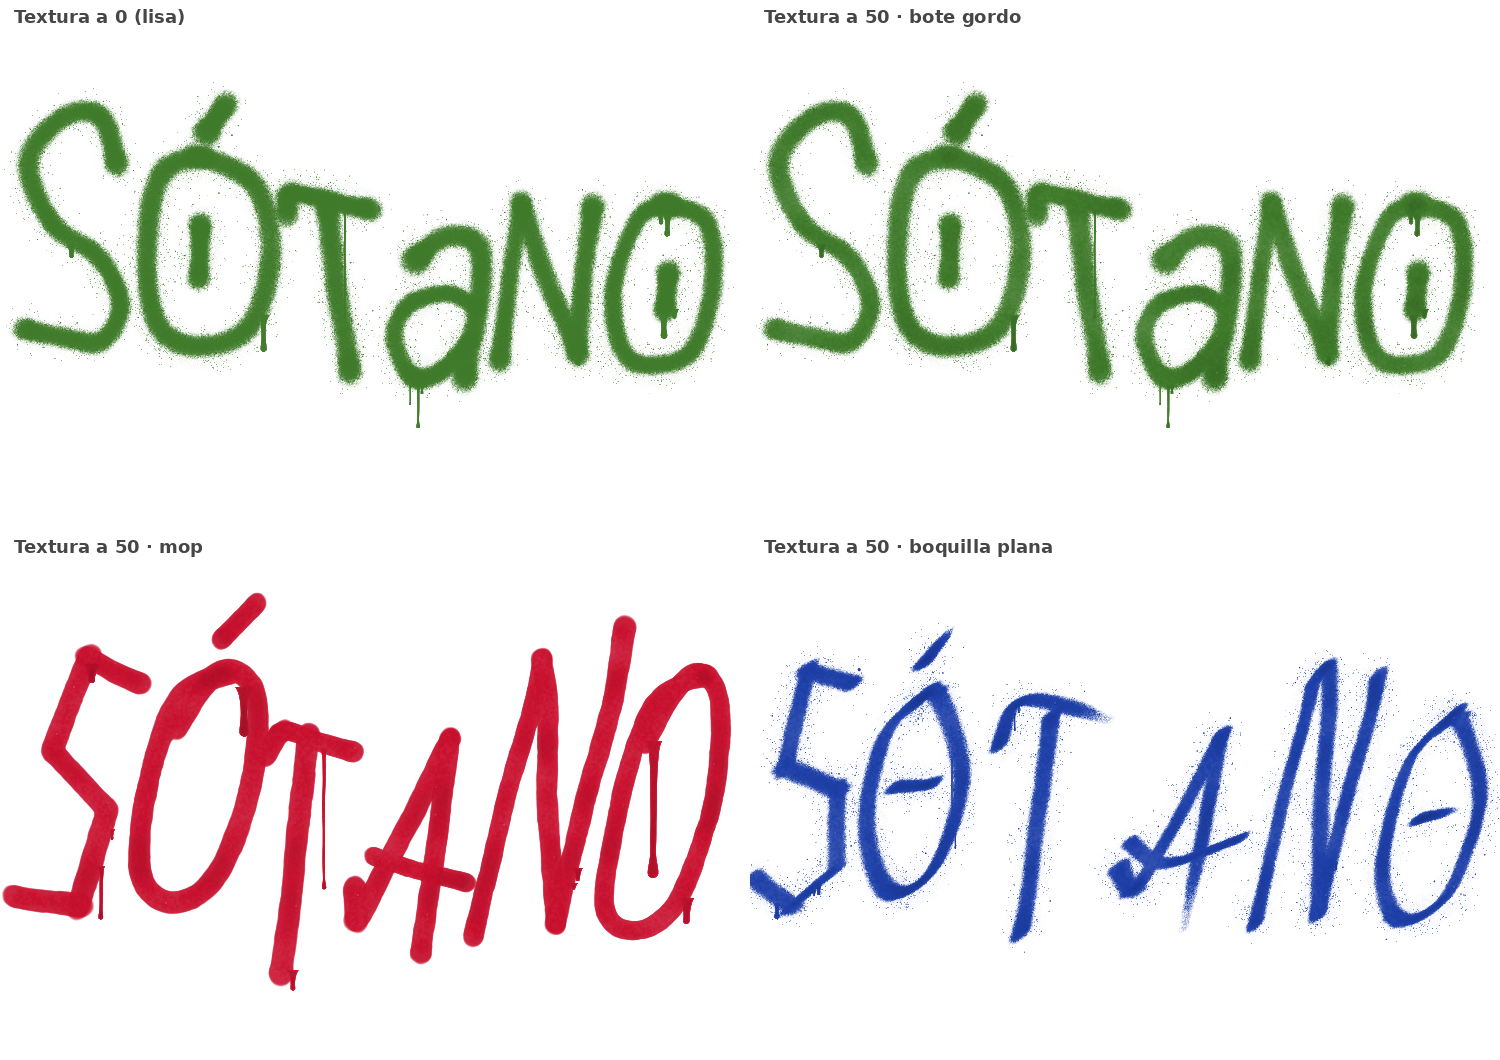
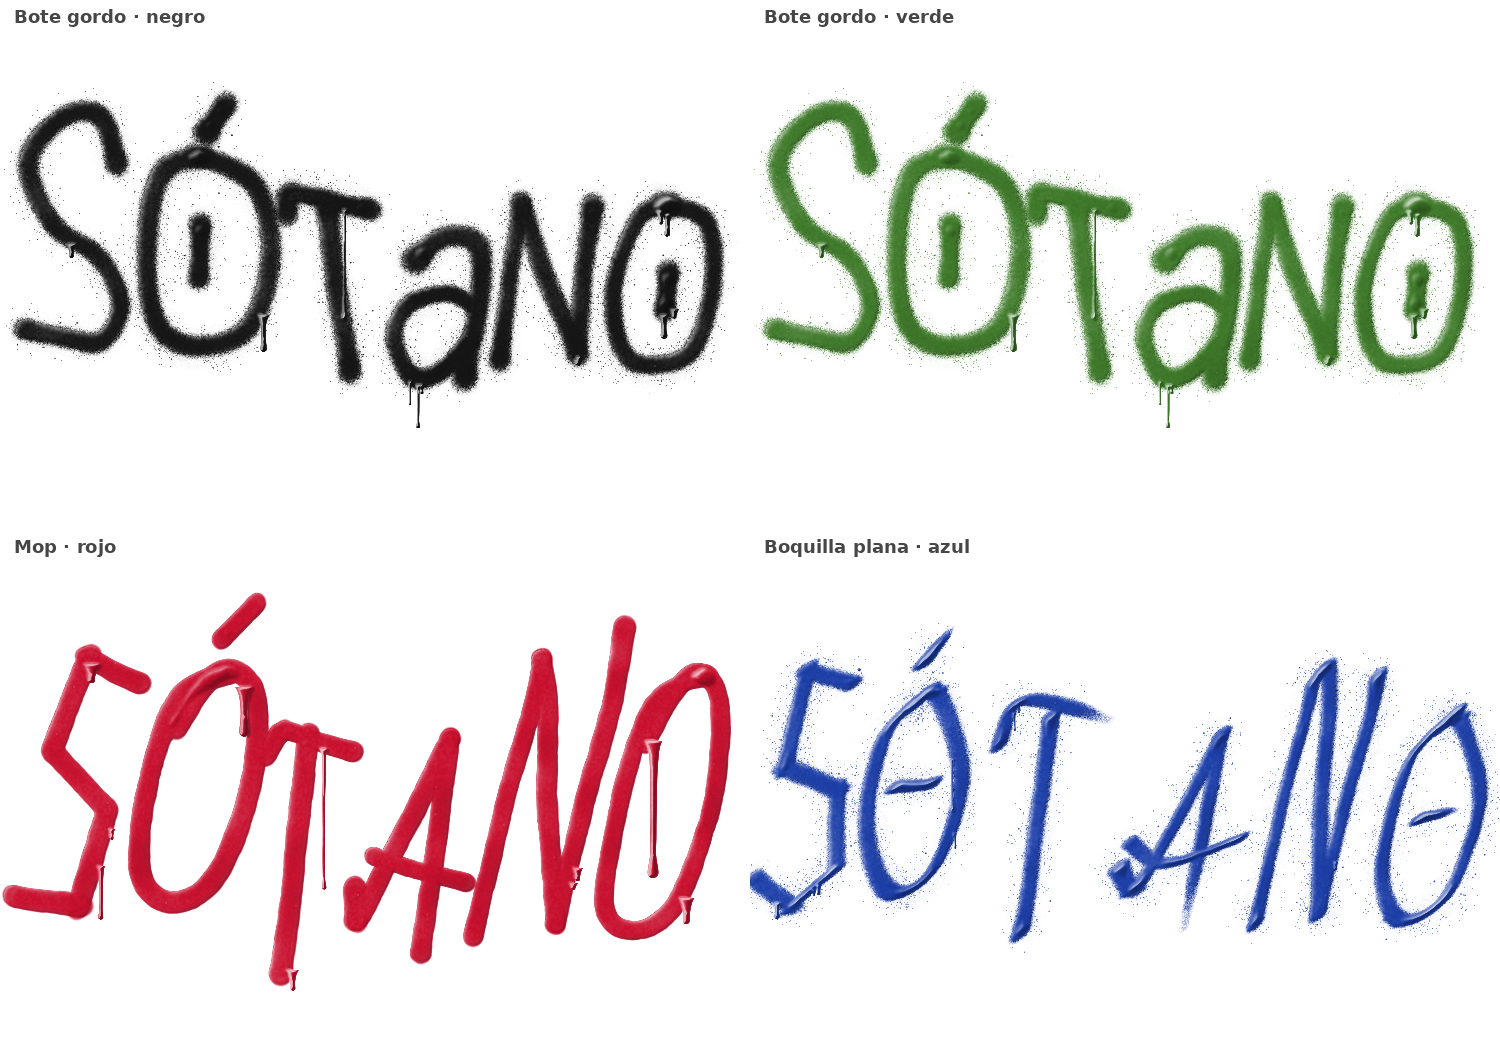
Graffiti (en curso, sin ccx): textura con un poco de brillo y de relieve
- applyRelief: la película tiene grosor (canto que coge luz arriba-izquierda y oscurece enfrente), lo acumulado
  abulta, el chorretón es un cordón con su línea de luz y la gota una pompa; brilla más donde hay más carga y a
  rachas; se mantiene el fondo plano (bandas de brillo, piel fina) y las uniones sin costura

Claude-Session: https://claude.ai/code/session_01VPHARAUhx1iCr3dazRNKtN

diff --git a/js/render.js b/js/render.js
@@ -167,11 +167,26 @@ function applyRelief(canvas) {
     for (let y = 0; y < h; y++) { const r = y * w, ru = y > 0 ? r - w : r, rd = y < h - 1 ? r + w : r; for (let x = 0; x < w; x++) c[r + x] = (b[ru + x] + 2 * b[r + x] + b[rd + x]) * 0.25; }
     a = c;
   }
+  // un poco de relieve: la película tiene su grosor (poco), lo acumulado abulta, el chorretón es un cordón y su
+  // gota una pompa. Se ilumina desde arriba a la izquierda: claro en lo que mira a la luz, oscuro al otro lado
+  const blurN = (src, times) => {
+    let q = src, t = new Float32Array(n);
+    for (let k = 0; k < times; k++) {
+      for (let y = 0; y < h; y++) { const r = y * w; for (let x = 0; x < w; x++) { const l = x > 0 ? q[r + x - 1] : q[r + x], rr = x < w - 1 ? q[r + x + 1] : q[r + x]; t[r + x] = (l + 2 * q[r + x] + rr) * 0.25; } }
+      const c = q === src ? new Float32Array(n) : q;
+      for (let y = 0; y < h; y++) { const r = y * w, ru = y > 0 ? r - w : r, rd = y < h - 1 ? r + w : r; for (let x = 0; x < w; x++) c[r + x] = (t[ru + x] + 2 * t[r + x] + t[rd + x]) * 0.25; }
+      q = c;
+    }
+    return q;
+  };
+  const Hs1 = blurN(H0, 2), depth = s * 0.3, Z = new Float32Array(n);
+  for (let k = 0; k < n; k++) { const v = Hs1[k]; if (v > 0) Z[k] = depth * (0.95 * Math.min(1, v * 2) + 2.2 * Math.max(0, v - 0.5) + 4 * Math.max(0, a[k] - 0.5)); }
+  const dl = Math.max(1, Math.round(s * 0.22));        // paso del gradiente hacia la luz
   const f1 = 1 / (s * 15), f2 = 1 / (s * 5.5), f3 = 1 / Math.max(1.5, s * 0.5), cell = Math.max(3, Math.round(s * 2.2));
   for (let y = 0; y < h; y++) for (let x = 0; x < w; x++) {
     const k = y * w + x, v = H0[k], i = k * 4;
-    if (v < 0.3 || !D[i + 3]) continue;
-    const m = v >= 0.48 ? 1 : (v - 0.3) / 0.18;                  // solo la película con cuerpo (la nube de motas, no)
+    if ((v < 0.3 && Hs1[k] < 0.2) || !D[i + 3]) continue;
+    const m = v >= 0.48 ? 1 : Math.max(0, Math.min(1, (Math.max(v, Hs1[k] * 1.3) - 0.2) / 0.28));
     const X = canvas.x0 + x, Y = canvas.y0 + y;
     const acc = Math.max(0, Math.min(1, (a[k] - 0.52) * 2.6));     // pintura de más
     // brillo: bandas anchas (inclinadas, como la luz que resbala) + un aguado más corto
@@ -181,6 +196,13 @@ function applyRelief(canvas) {
     const cx = Math.floor(X / cell), cy = Math.floor(Y / cell);
     if (R2.hash2(cx, cy, 921) < 0.035) { const px = (cx + 0.25 + 0.5 * R2.hash2(cx, cy, 923)) * cell, py = (cy + 0.25 + 0.5 * R2.hash2(cx, cy, 925)) * cell, dd = Math.hypot(X - px, Y - py); if (dd < 1.1) li += amount * 0.22; else if (dd < 2.1 && Y > py) li -= amount * 0.1; }
     li = (li - amount * 0.32 * acc) * m;
+    // la luz: lo que mira arriba-izquierda aclara, lo de enfrente oscurece; más donde la pintura está cargada y
+    // mojada (y a rachas: no brilla igual en todas partes)
+    { const xa = x >= dl ? x - dl : 0, ya = y >= dl ? y - dl : 0, xb = x + dl < w ? x + dl : w - 1, yb = y + dl < h ? y + dl : h - 1;
+      const e = Math.max(-1, Math.min(1, (Z[yb * w + xb] - Z[ya * w + xa]) / (dl * 2.83) * 4));     // >0: sube hacia abajo-derecha = mira a la luz
+      const wet = Math.max(0.5, Math.min(1.5, 0.55 + 1.1 * acc + 0.55 * sheen + 1.3 * Math.max(0, v - 0.5)));
+      // (y el destello: un punto de luz neto donde el cordón o la gota miran de lleno a la luz)
+      li += amount * (e > 0 ? 0.8 * wet * e + 0.7 * wet * Math.max(0, e - 0.5) * Math.max(0, e - 0.5) : 0.5 * e); }
     for (let c = 0; c < 3; c++) { let u = D[i + c]; u += li > 0 ? (255 - u) * li : u * li; D[i + c] = u < 0 ? 0 : u > 255 ? 255 : u; }
   }
 }

diff --git a/js/ink.js b/js/ink.js
@@ -529,7 +529,7 @@ function drawDrips(buf, bx0, by0, bx1, by1, bw, drips, dens, hb) {
         const dx = Math.abs(X + 0.5 - xc), al = Math.max(0, Math.min(1, hw - dx + 0.5)) * dens, k = (Y - by0) * bw + (X - bx0);
         if (al > buf[k]) buf[k] = al;
         // (el chorretón es un cordón de pintura: sobresale, redondo, y más su gota)
-        if (hb && al > 0) { const u = dx / (hw + 0.5), hv = 0.5 + (yy > lenT - lB ? 0.42 : 0.3) * Math.sqrt(Math.max(0, 1 - u * u)); if (hv > hb[k]) hb[k] = hv; }
+        if (hb && al > 0) { const u = dx / (hw + 0.5), hv = 0.5 + (yy > lenT - lB * 0.6 ? 0.5 : 0.32) * Math.sqrt(Math.max(0, 1 - u * u)); if (hv > hb[k]) hb[k] = hv; }
       }
     }
   }
